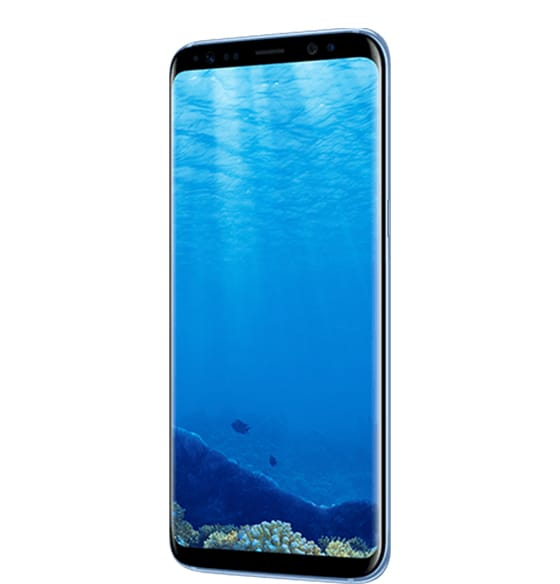
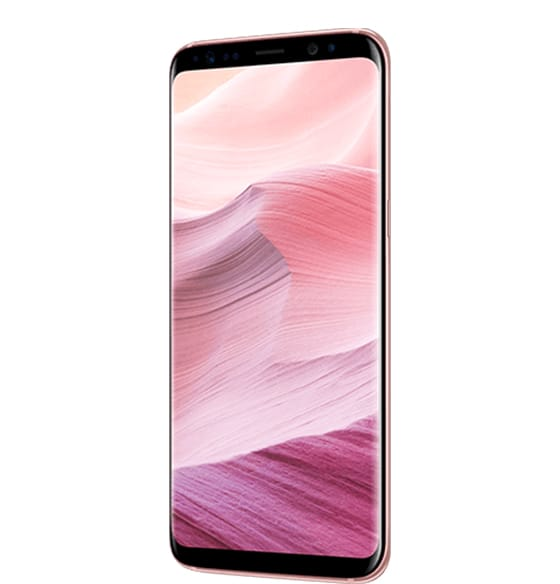
slider process

diff --git a/js/main.js b/js/main.js
@@ -102,6 +102,53 @@ list.addEventListener('mouseleave', (a) => {
 
 //color slider
 
+//사진
+const devicePicWrap = document.querySelector('.color_device_pic_device');
+
+const deviceSlider = document.querySelector('.color_device_pic_device_s8'); //ul
+const devicePicList = deviceSlider.querySelectorAll('li');
+
+let devicePic; //figure
+let deviceImg; //img
+for(let i=0; i<devicePicList.length; i++){
+    devicePic = devicePicList[i].querySelectorAll('figure'); 
+    deviceImg = devicePic[i].querySelectorAll('img');
+}
+
+let devicePicWidth = devicePicWrap.offsetWidth; //사진 하나 가로
+
+let picShow = 1; // 보일 사진 개수
+
+//색
+const colorList = document.querySelector('.color_list'); //ul
+const colorListItems = colorList.querySelectorAll('li');
+
+//디바이스
+//const colorNav = document.querySelector('.color_nav_device'); //ul
+//const colorNavList = colorNav.querySelectorAll('li'); //li
+
+// < >
+const colorChevronWrap = document.querySelector('.color_device_chevron_indicator'); //
+const colorChevron = colorChevronWrap.querySelectorAll('a'); // chevrons
+
+// 동그라미
+const colorIndicatorWrap = document.querySelector('.color_device_btn_indicator');
+const colorIndicator = colorIndicatorWrap.querySelectorAll('a') //indicators
+
+
+deviceSlider.style.width = 'devicePicWidth' * devicePicList.length; //slider 가로 늘리기
+
+
+//for(let i =0; i <devicePicList.length; i++){
+   // speakerBoxImg[i].style.backgroundImage = 'url(../css/src/img/s'+ (i+1) +'.jpg)';} 
+for(let i=0; i<devicePicList.length; i++) {
+    deviceImg[i].src = "../css/img_galaxy/galaxys8/galaxy-s8_gallery-color_normal-c"+i+"-0"+i+".jpg"
+}
+
+   for(let i=0; i < picShow; i++) {
+    const copyLastBox = devicePicList[devicePicList.length-(i+1)].cloneNode(true);
+    deviceSlider.prepend(copyLastBox);
+} //마지막 박스 복사 
 
 const topBtn = document.querySelector('.topBtn'); //고정된 버튼
 const footerBtnParent = document.querySelector('.footer_btns'); //버튼 parent
@@ -139,8 +186,6 @@ document.addEventListener('scroll', ()=> {
 
 //footer로 스크롤시 topbtn 사라지게
 const footerWrap = document.querySelector('#footer_wrap');
-let footerY = footerWrap.getBoundingClientRect().top;
-let footerTop = window.pageYOffset + footerY;
 let wrapHeight = wrap.offsetHeight;
 let footerHeight = footerWrap.offsetHeight;
 let windowHeight = window.innerHeight;
@@ -188,40 +233,6 @@ netWorkBtn.addEventListener('click', (a) => {
 
 });
 
-
-// footer버튼 누르면 darkmode로 바꾸기
-
-const colorSettingBox = document.querySelector('.footer_settings_color'); // color button 감싼 박스
-const colorBtn = colorSettingBox.querySelectorAll('a'); // color button  2개
-const darkBtn = colorBtn[0]; //첫번째 버튼 (dark mode)
-
-//dark mode 적용시킬 elements
-// const colorMenu = document.querySelector('.color_list');
-// const colorList = colorMenu.querySelectorAll('li');
-// const colorchevronWrap = document.querySelector('.color_device_chevron_indicator');
-// const colorchevron = colorchevronWrap.querySelectorAll('a');
-// const colorIndicatorWrap = document.querySelector('.color_device_btn_indicator');
-// const colorIndicator = colorIndicatorWrap.querySelectorAll('a');
-// const specifiWrap = document.querySelector('#article_specifications');
-// const footerShare = footerWrap.querySelector('.footer_share');
-// const footerSettings = footerWrap.querySelector('.footer_settings');
-// const footerPolicy = footerWrap.querySelector('.footer_policy');
-
-// darkBtn.addEventListener('click', () => {
-
-//     colorNav.classList.add('dark');
-//     colorNavList.classList.add('dark');
-//     colorMenu.classList.add('dark');
-//     colorList.classList.add('dark');
-//     colorIndicator.classList.add('dark');
-//     colorchevron.classList.add('dark');
-//     specifiWrap .classList.add('dark');
-//     footerWrap.classList.add('dark');
-//     footerSettings.classList.add('dark');
-//     footerShare.classList.add('dark');
-//     netWorkBtnWrap.classList.add('dark');
-//     footerPolicy.classList.add('dark');
-// });
 
 // footer more 누르면 아래 div block, 보이기
 

diff --git a/css/style.css b/css/style.css
@@ -595,8 +595,3 @@
   cursor: pointer;
   transition: all 300ms ease-in;
 }
-
-.dark {
-  background-color: black;
-  color: white;
-}
